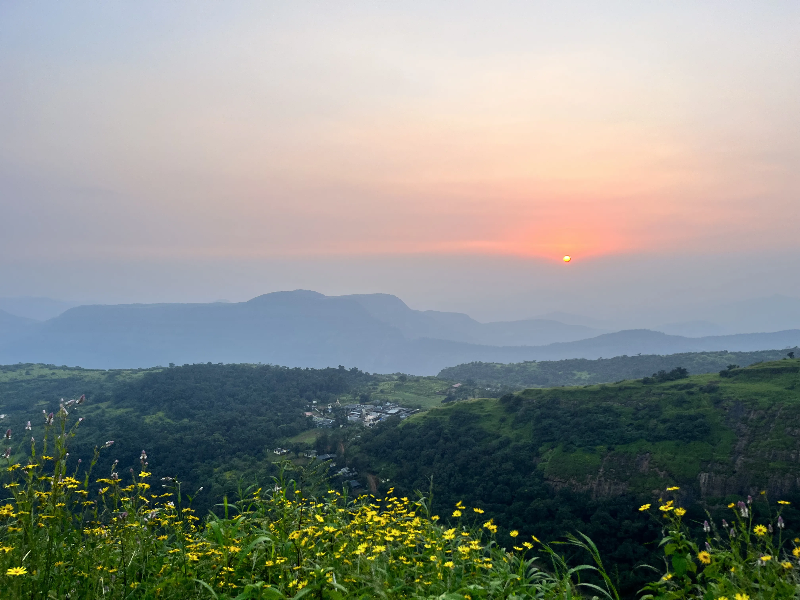
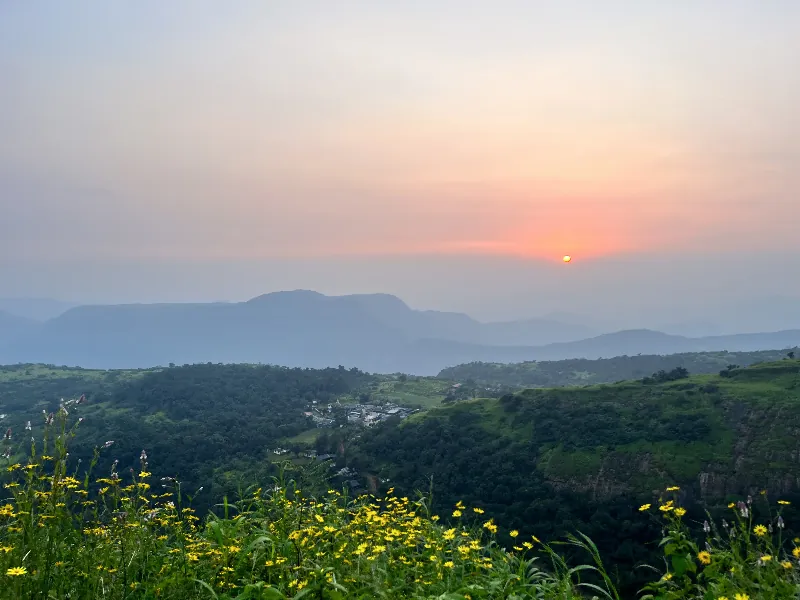
Image compression

diff --git a/_posts/2019-08-06-solang-skyrun-2018.md b/_posts/2019-08-06-solang-skyrun-2018.md
@@ -14,52 +14,52 @@ The race route largely comprised trails. The idea of being on a remote trail, aw
 
 Priority 1 was to not get injured. In fact priority 1 was to get home safely. This was fairly well accomplished. I returned with only a few bruises, and the ‘running season’ went well as I achieved my PB at Airtel Delhi Half Marathon.  
 
-![image](/assets/images/solang/start-of-run.jpg)
+![image](/assets/images/solang/start-of-run.webp)
 
 This smile lasted the entirety of the 30km of the run. I was so bloody excited, and the experience totally surpassed expectations.  
 
-![image](/assets/images/solang/climbing-to-jogini.jpg)
+![image](/assets/images/solang/climbing-to-jogini.webp)
 
 The second stretch of the run, as we approached Jogini falls from the Manali-Leh highway. The fun was only beginning.  
 
-![image](/assets/images/solang/jogini.jpg)
+![image](/assets/images/solang/jogini.webp)
 
 Heading upto Jogini falls
 
-![image](/assets/images/solang/looking-up-death-climb.jpg)
+![image](/assets/images/solang/looking-up-death-climb.webp)
 
 The death climb. This took me about an hour, and all my training and preparation really paid off here. I emerged to lead the middle pack of runners. I kept the position of seventh for the rest of the race after overtaking 20-30 people on the ascent.  
 
-![image](/assets/images/solang/lush-green.jpg)
+![image](/assets/images/solang/lush-green.webp)
 
 The elevation gain achieved was over 1000+ metres in less than 5km. Physically it was the toughest part of the race – the stair-like route was steep. I fell and bruised my legs quite a bit. While climbing I was worrying a bit about exhausting myself, worrying that I had pushed myself too hard. But I still had plenty in reserve.
 
-![image](/assets/images/solang/mountain-view.jpg)
+![image](/assets/images/solang/mountain-view.webp)
 
 For much of the run this Mountain panorama was right beside me. You know what's better than sitting down and admiring a mountain panorama? It is to run with that view :)
 
-![image](/assets/images/solang/crossing-line.jpg)
+![image](/assets/images/solang/crossing-line.webp)
 Scratched, bruised, and high. That scream of accomplishment when I crossed the finish line!  
 
 I feel [The Hell Race](https://www.thehellrace.com/trail-race/solang-skyultra/) folks did a pretty good job in organizing the run. The route was safe, the markings were adequate, and I got sufficient water and food throughout the run to sustain myself.
 
-![image](/assets/images/solang/post-run-grin-hotel-iceland.jpg)
+![image](/assets/images/solang/post-run-grin-hotel-iceland.webp)
 
 Stupid grin on realizing what I had just accomplished! 5 hours 10 minutes of pure, joyous, persistent effort. If only life itself was that easy!  
 
-![image](/assets/images/solang/checking-in.jpg)
+![image](/assets/images/solang/checking-in.webp)
 
 Checking in at the hotel in Solang, after more than 18 hours of travel
 
-![image](/assets/images/solang/pre-race-munching.jpg)
+![image](/assets/images/solang/pre-race-munching.webp)
 
 Munching on an apple at the Hotel Iceland terrace. Happy memories :)
 
-![image](/assets/images/solang/race-route.jpg)
+![image](/assets/images/solang/race-route.webp)
 
 I studied this race route well before the race, which helped me avoid surprises. I knew the route profile in terms of the ascents and the descents. The only part that stumped me was the fact that at the very last there would be an ascent from the Beas river to the Solang village, and even worse, it would be along the tarred road in full 12 noon Sun.
 
-![image](/assets/images/solang/morning-post-black-coffee-at-hotel-iceland.jpg)
+![image](/assets/images/solang/morning-post-black-coffee-at-hotel-iceland.webp)
 
 I loved Hotel Iceland. The food was amazing. This is me in the morning. The feeling before the race, of confidence in preparation, and nervous excitement at the uncertainty of the course! That's beautiful.
 

diff --git a/_posts/2023-11-07-rajmachi-fort-trek.md b/_posts/2023-11-07-rajmachi-fort-trek.md
@@ -6,7 +6,7 @@ categories: kipchoge
 post_id: 20
 ---
 
-# Rajmachi Trek - An incredibly accessible trek in Lonavala
+### Where is it?
 
 Rajmachi fort is an awesome trek with a trailhead at the core of Lonavala. I had first stumbled on the trek on a Staycation at Fariyas resort, Lonavala, where the hotel did a guided tour for us to Tungarli dam. Rajmachi fort trek has two trailheads - one at Tungarli dam, and the other near to Della Adventure resort. The route starting from Tungarli dam is more beautiful, and goes through much more dense greenery, before converging with the jeep track that comes up from Della Resort.
 

diff --git a/_posts/2020-11-13-the-wrong-turn-ft-jim-walmsley.md b/_posts/2020-11-13-the-wrong-turn-ft-jim-walmsley.md
@@ -10,7 +10,7 @@ This is such a beautifully narrated video. It follows two arcs:
 1. Jim’s discharge from the US Air Force. 
 2. The Wrong Turn at Mile 93.   
 
-<div><iframe width="640" height="360" src="https://www.youtube.com/embed/zkdWjq34h5w?color=white&theme=light"></iframe></div>
+<div><iframe width="640" height="360" src="https://www.youtube.com/embed/zkdWjq34h5w?color=white&theme=light" allowfullscreen></iframe></div>
 
 I loved the honesty and openness of the first story arc. I’ll talk about that at a later point.  
 

diff --git a/_posts/2019-08-26-the-smile-of-kipchoge.md b/_posts/2019-08-26-the-smile-of-kipchoge.md
@@ -22,3 +22,6 @@ It’s a signal
 It says I am in control  
 It says I am thriving on the knife’s edge  
 It says I am absolutely killing it  
+
+
+<iframe width="640" height="360" src="https://www.youtube.com/embed/XqWQx0_pyPg?si=jQfFSEg9KY1V1eT4" allowfullscreen></iframe>
